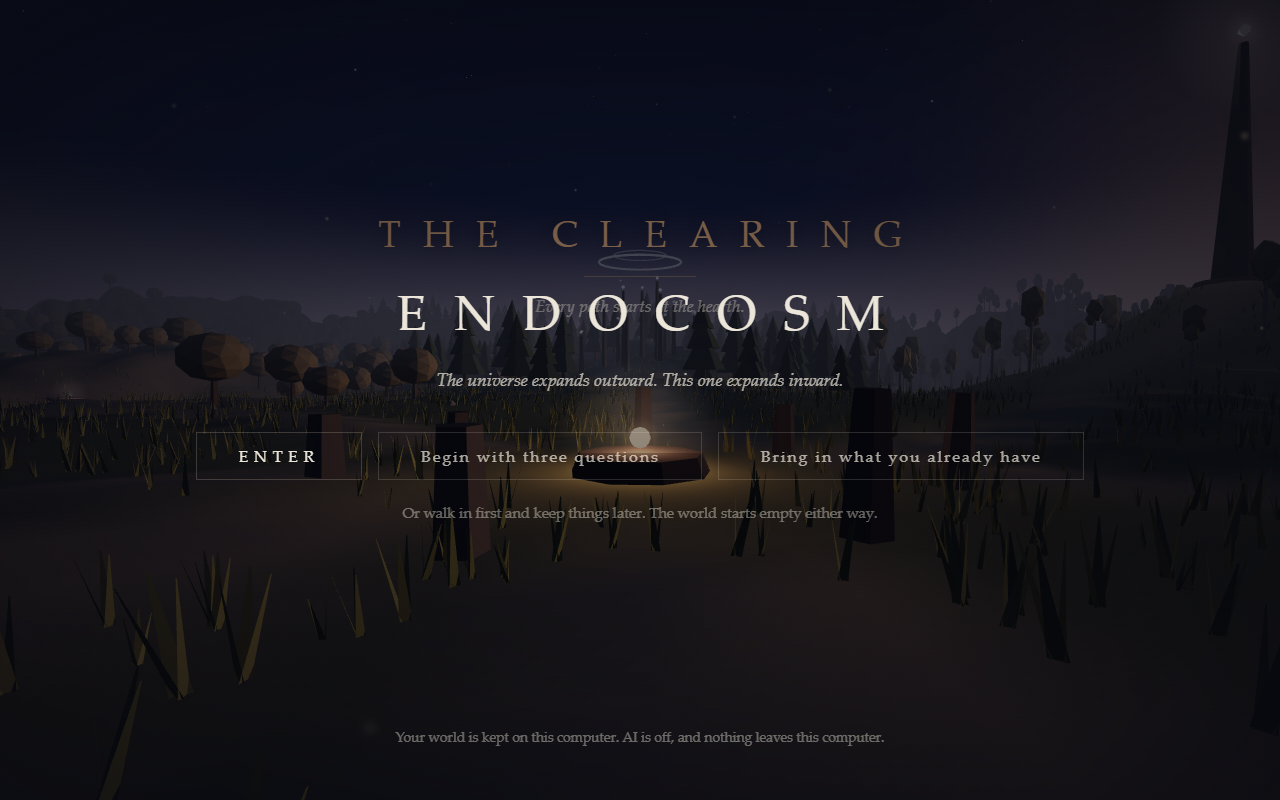
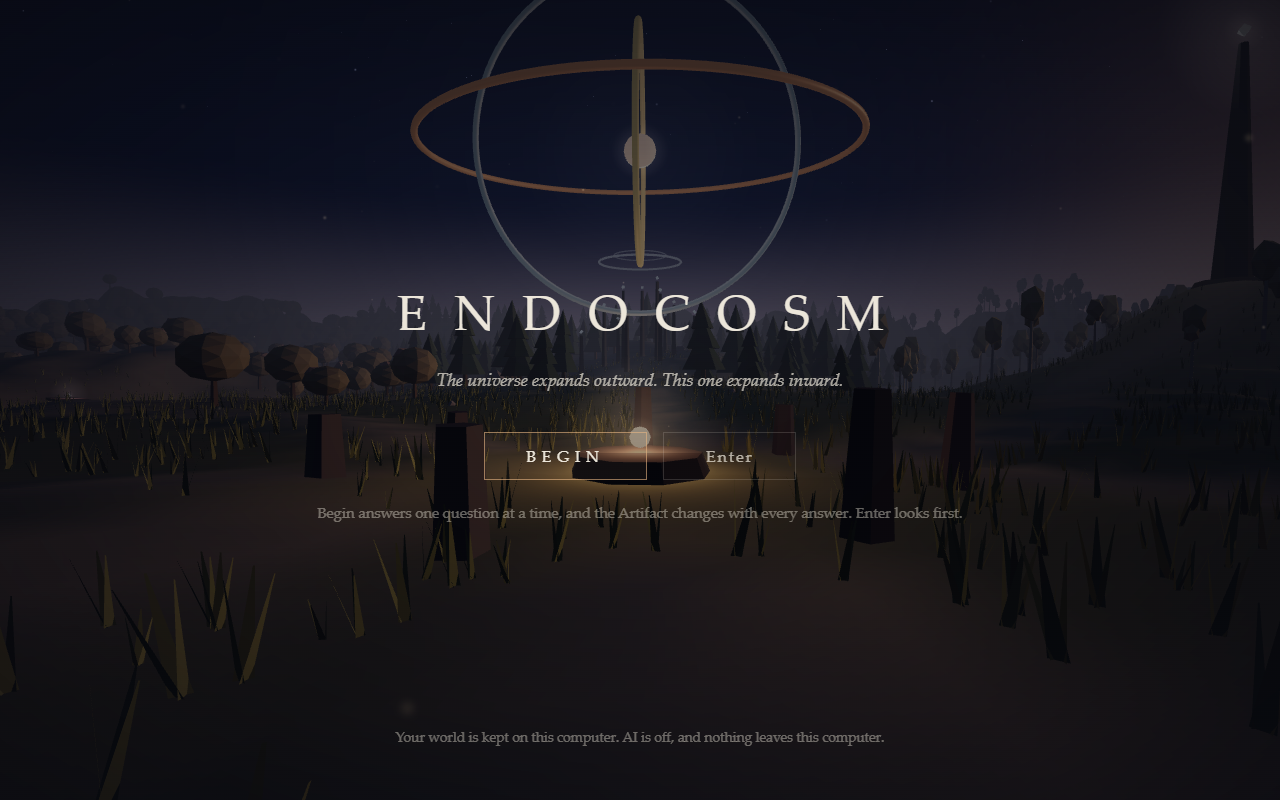
Show the Artifact, Guide and mapper readings in 0.3.0

diff --git a/README.md b/README.md
@@ -2,9 +2,28 @@
 
 ### The universe expands outward. This one expands inward.
 
-![The threshold: enter, begin with three questions, or bring in what you already have](shots/01-threshold.png)
+![The threshold: Begin with the Guide, or Enter to look at the Artifact](shots/01-threshold.png)
 
 ENDOCOSM is a Windows program that turns what a person keeps (journal entries, memories, beliefs, dreams, questions) into a world they can walk through. Everything kept becomes a light in the place it belongs. Your world is kept on your own computer, AI is off unless you turn it on, and nothing leaves the computer unless you send it.
+
+## The Artifact and the Guide
+
+![The Artifact before anything is kept](shots/07-artifact-bare.png)
+
+You arrive at a gyroscope above the hearth: Body, Mind and Soul around a
+floating centre. Its rings, shell, satellites and haze come from what you
+have kept. Each part explains itself in words.
+
+![The Guide asks its first question](shots/08-guide-question.png)
+
+The Guide asks one question at a time. Keep the answer, skip the question,
+or leave it for later. Every answer becomes an ordinary entry and changes
+the Artifact. The questions live in the app and work with AI off.
+
+![The Artifact after an opening round](shots/09-artifact-after-round.png)
+
+Walk returns you to the world. E at the hearth returns to the Artifact.
+The Record still lets you write freely, through In your own words.
 
 ## A world you walk through
 
@@ -38,9 +57,21 @@ Everything you keep is written down in the Record, and each entry is also a ligh
 ## Private by design
 
 * **One world, one file, on your computer.** It never lives inside the program folder, and uninstalling leaves it in place unless you choose otherwise.
-* **Optional AI, off by default.** Bring your own key, which is kept in Windows Credential Manager. Every run is previewed first, and nothing it suggests counts until you accept it.
+* **Optional AI, off by default.** Add named mappers, each with its own key, model and strategy. Keys are kept in Windows Credential Manager before testing, so a failed test loses nothing. Every run is previewed first; findings change your world when you accept them.
 * **The Library:** chats and documents you bring in (a ChatGPT or Claude export, your own notes and documents) are never part of your world until you keep something from them.
 * **Safekeeping:** backups, exports (optionally locked) and restore.
+
+## Several readings of the same Artifact
+
+![Mapper settings, each with its own key and strategy](shots/10-mappers.png)
+
+Map me asks an enabled mapper to read permitted material across the realms.
+You see every item, destination and cost estimate before sending it.
+
+![A mapper reading drawn apart in violet](shots/11-reading-overlay.png)
+
+Readings sit beside the Artifact in dashed violet and can be hidden. A mapper
+can offer questions for the next Guide round; its name stays with the answer.
 
 ## How it is tested
 
@@ -48,7 +79,10 @@ Whole scenarios run end to end in an invisible browser, against the real model c
 
 ## Status
 
-Version 0.2.1, for Windows, installed per user with no admin prompt. Every stage of its build plan is built and tested, including the installed program itself.
+Version 0.3.0, for Windows, with a per-user installer and no admin prompt.
+The Guide, Artifact and mapper flows pass headless checks with scratch worlds.
+The new installer is built; its visible first-launch and reopen checks remain
+pending. Version 0.2.1 was previously tested as an installed program.
 
 The code is private.
 
